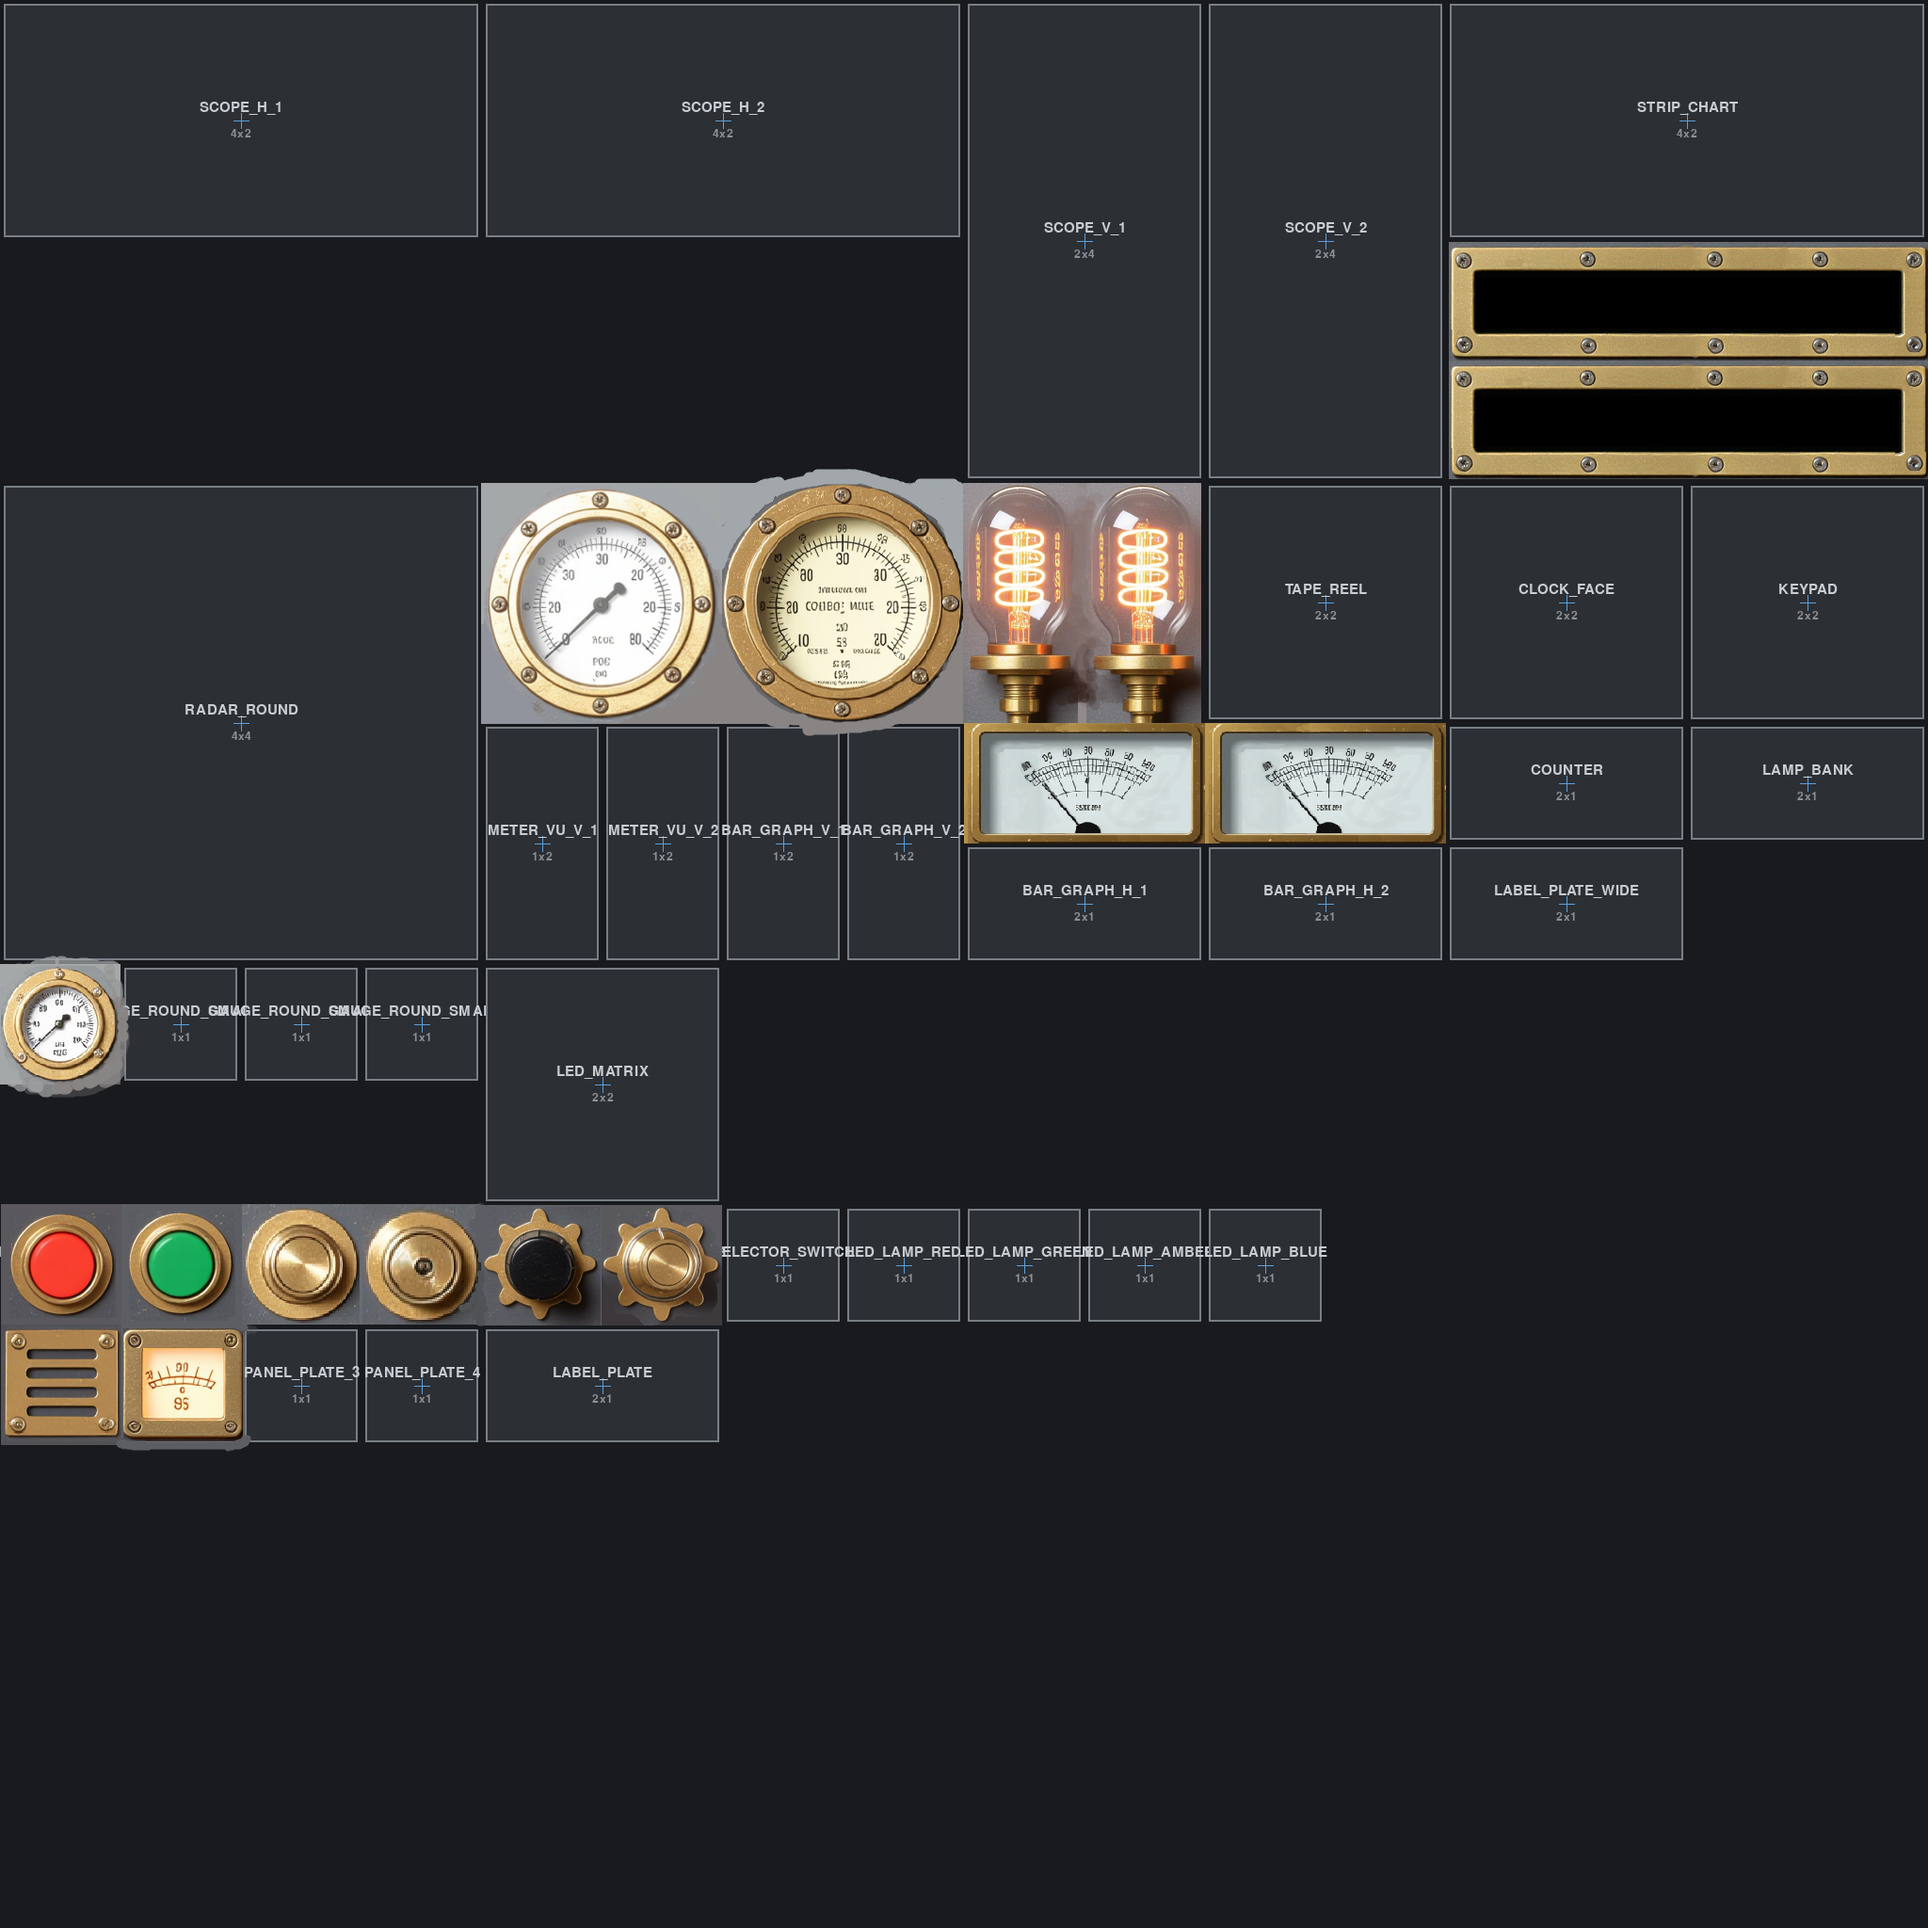
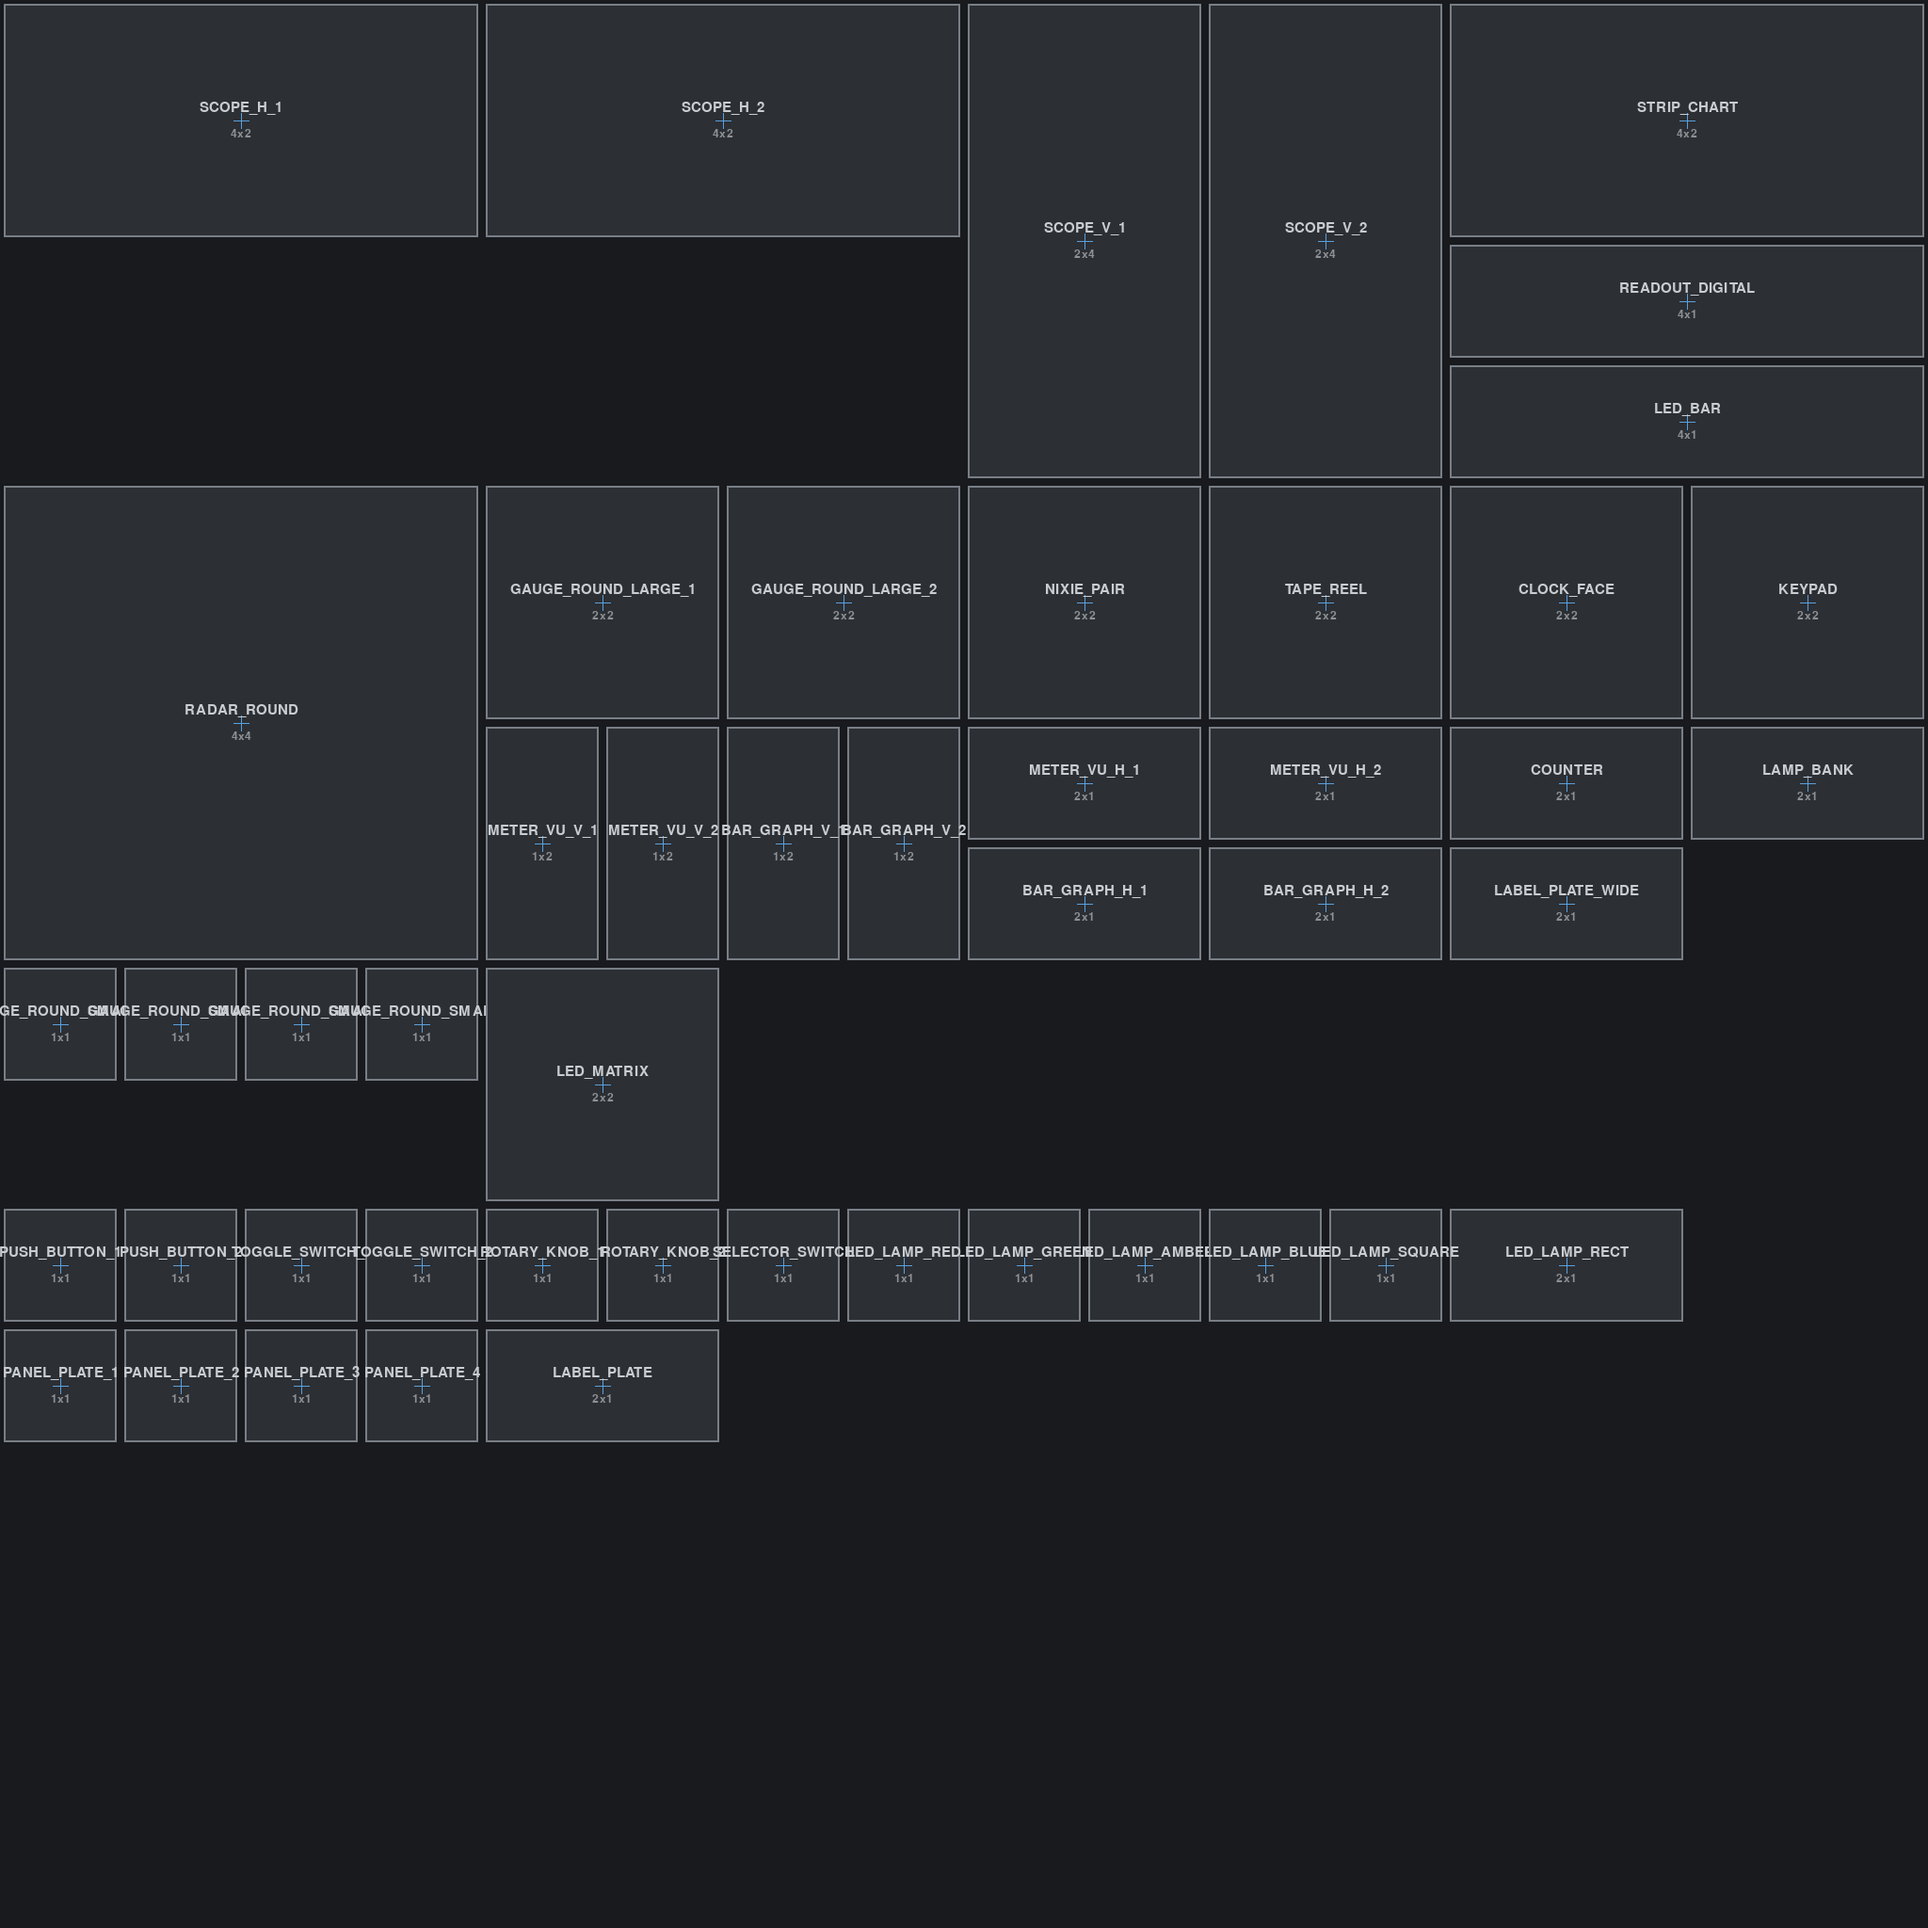
Add square and rectangular lamp controls to controlpanel mode

diff --git a/controlpanel/controls/lamps.py b/controlpanel/controls/lamps.py
@@ -67,3 +67,65 @@ class LampControl(Control):
         core = tuple(int(c * lv) for c in self.color)
         pygame.draw.circle(surface, halo, (cx, cy), r_halo)
         pygame.draw.circle(surface, core, (cx, cy), r_core)
+
+
+class SquareLampControl(LampControl):
+    """
+    Square indicator lamp. Same blink/fade behavior as LampControl, but the
+    glow is drawn as a centered square.
+
+    Layout overrides: signal, color_rgb, center, size.
+    """
+
+    def __init__(self, placed, ctx):
+        super().__init__(placed, ctx)
+        _, _, w, h = self.rect
+        self.half = max(1, int(float(self.spec.get("size", 0.30)) * min(w, h) / 2))
+
+    def draw_overlay(self, surface):
+        if self.level < 0.02:
+            return
+        cx, cy = int(self.center[0]), int(self.center[1])
+        lv = self.level
+        half_halo = max(1, int(self.half * 1.6))
+        halo = tuple(int(c * 0.35 * lv) for c in self.color)
+        core = tuple(int(c * lv) for c in self.color)
+        pygame.draw.rect(surface, halo,
+                         (cx - half_halo, cy - half_halo,
+                          half_halo * 2, half_halo * 2))
+        pygame.draw.rect(surface, core,
+                         (cx - self.half, cy - self.half,
+                          self.half * 2, self.half * 2))
+
+
+class RectLampControl(LampControl):
+    """
+    Rectangular indicator lamp. Same blink/fade behavior as LampControl, but
+    the glow is drawn as a centered rectangle whose aspect ratio matches the
+    sprite footprint.
+
+    Layout overrides: signal, color_rgb, center, size.
+    """
+
+    def __init__(self, placed, ctx):
+        super().__init__(placed, ctx)
+        _, _, w, h = self.rect
+        size = self.spec.get("size", [0.60, 0.35])
+        self.half_w = max(1, int(float(size[0]) * w / 2))
+        self.half_h = max(1, int(float(size[1]) * h / 2))
+
+    def draw_overlay(self, surface):
+        if self.level < 0.02:
+            return
+        cx, cy = int(self.center[0]), int(self.center[1])
+        lv = self.level
+        hw_halo = max(1, int(self.half_w * 1.5))
+        hh_halo = max(1, int(self.half_h * 1.5))
+        halo = tuple(int(c * 0.35 * lv) for c in self.color)
+        core = tuple(int(c * lv) for c in self.color)
+        pygame.draw.rect(surface, halo,
+                         (cx - hw_halo, cy - hh_halo,
+                          hw_halo * 2, hh_halo * 2))
+        pygame.draw.rect(surface, core,
+                         (cx - self.half_w, cy - self.half_h,
+                          self.half_w * 2, self.half_h * 2))

diff --git a/controlpanel/controls/__init__.py b/controlpanel/controls/__init__.py
@@ -7,7 +7,7 @@ from .base import Control, ControlContext  # noqa: F401
 from .bars import BarGraphControl, LedBarControl  # noqa: F401
 from .keypad import KeypadControl  # noqa: F401
 from .lampgroups import LampBankControl, LedMatrixControl  # noqa: F401
-from .lamps import LampControl  # noqa: F401
+from .lamps import LampControl, RectLampControl, SquareLampControl  # noqa: F401
 from .needles import GaugeControl, MeterControl  # noqa: F401
 from .readouts import (CounterControl, DigitalReadoutControl,  # noqa: F401
                        NixieControl)
@@ -25,6 +25,8 @@ CONTROL_CLASSES = {
     "bar_graph": BarGraphControl,
     "led_bar": LedBarControl,
     "lamp": LampControl,
+    "lamp_square": SquareLampControl,
+    "lamp_rect": RectLampControl,
     "lamp_bank": LampBankControl,
     "led_matrix": LedMatrixControl,
     "push_button": PushButtonControl,

diff --git a/tests/test_control_panel_all.py b/tests/test_control_panel_all.py
@@ -47,6 +47,8 @@ ALL_TYPES_LAYOUT = {
         {"type": "bar_graph",       "sprite": "BAR_GRAPH_V_1", "panel": "p", "at": [3, 2]},
         {"type": "led_bar",         "sprite": "LED_BAR",      "panel": "p", "at": [4, 2]},
         {"type": "lamp",            "sprite": "LED_LAMP_RED", "panel": "p", "at": [0, 3]},
+        {"type": "lamp_rect",      "sprite": "LED_LAMP_RECT", "panel": "p", "at": [8, 3]},
+        {"type": "lamp_square",    "sprite": "LED_LAMP_SQUARE", "panel": "p", "at": [14, 3]},
         {"type": "lamp_bank",       "sprite": "LAMP_BANK",    "panel": "p", "at": [1, 3]},
         {"type": "led_matrix",      "sprite": "LED_MATRIX",   "panel": "p", "at": [4, 3]},
         {"type": "keypad",          "sprite": "KEYPAD",       "panel": "p", "at": [6, 3]},

diff --git a/controlpanel/registry.py b/controlpanel/registry.py
@@ -13,6 +13,8 @@ CONTROL_TYPES = {
     "bar_graph":       "BAR_GRAPH_V_1",
     "led_bar":         "LED_BAR",
     "lamp":            "LED_LAMP_RED",
+    "lamp_square":     "LED_LAMP_SQUARE",
+    "lamp_rect":       "LED_LAMP_RECT",
     "lamp_bank":       "LAMP_BANK",
     "led_matrix":      "LED_MATRIX",
     "push_button":     "PUSH_BUTTON_1",
